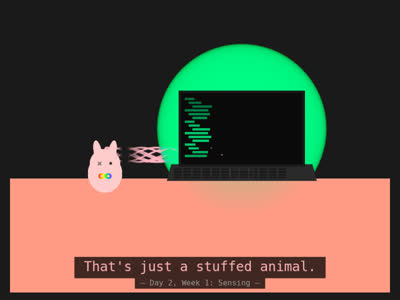
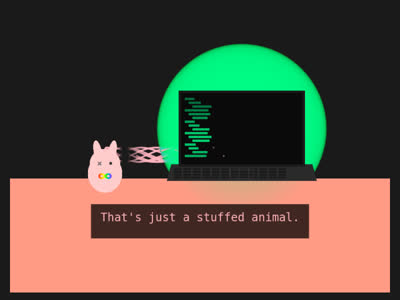
Update #038 & #039 descriptions and layout
#038: 'The new experiment begins' (removed Day 1)
#039: Text moved up to 75% height, multi-line support, removed subtitle

diff --git a/2026-03-12-pink-pal.html b/2026-03-12-pink-pal.html
@@ -225,28 +225,48 @@ function draw() {
     X.fill();
   }
   
-  // Text at bottom - with dark background for readability
-  X.font = '28px monospace';
+  // Text - with dark background for readability, multi-line support
+  X.font = '24px monospace';
   X.textAlign = 'center';
   
-  // Measure text for background
-  const textWidth = X.measureText(currentText).width;
+  // Split long text into multiple lines
+  const maxWidth = W * 0.85;
+  const words = currentText.split(' ');
+  const lines = [];
+  let currentLine = '';
+  
+  for (let word of words) {
+    const testLine = currentLine ? currentLine + ' ' + word : word;
+    const testWidth = X.measureText(testLine).width;
+    if (testWidth > maxWidth && currentLine) {
+      lines.push(currentLine);
+      currentLine = word;
+    } else {
+      currentLine = testLine;
+    }
+  }
+  if (currentLine) lines.push(currentLine);
+  
+  // Measure for background
+  let maxLineWidth = 0;
+  for (let line of lines) {
+    maxLineWidth = Math.max(maxLineWidth, X.measureText(line).width);
+  }
+  
   const bgPadding = 20;
-  X.fillStyle = 'rgba(0, 0, 0, 0.75)';
-  X.fillRect(W/2 - textWidth/2 - bgPadding, H - 75, textWidth + bgPadding * 2, 45);
+  const lineHeight = 32;
+  const bgHeight = lines.length * lineHeight + bgPadding * 2;
+  const textY = H * 0.75;
   
-  // Main text
+  X.fillStyle = 'rgba(0, 0, 0, 0.75)';
+  X.fillRect(W/2 - maxLineWidth/2 - bgPadding, textY - bgHeight/2, maxLineWidth + bgPadding * 2, bgHeight);
+  
+  // Draw text lines
   X.fillStyle = PINK;
-  X.fillText(currentText, W / 2, H - 45);
-  
-  // Subtitle
-  X.font = '16px monospace';
-  const subWidth = X.measureText('— Day 2, Week 1: Sensing —').width;
-  X.fillStyle = 'rgba(0, 0, 0, 0.75)';
-  X.fillRect(W/2 - subWidth/2 - 12, H - 30, subWidth + 24, 22);
-  
-  X.fillStyle = '#999';
-  X.fillText('— Day 2, Week 1: Sensing —', W / 2, H - 15);
+  const startY = textY - (lines.length - 1) * lineHeight / 2;
+  for (let i = 0; i < lines.length; i++) {
+    X.fillText(lines[i], W / 2, startY + i * lineHeight);
+  }
   
   X.textAlign = 'left';
   

diff --git a/index.html b/index.html
@@ -299,7 +299,7 @@
       <div class="card-info">
         <div class="card-number">038</div>
         <div class="card-title">The Bicameral Mind</div>
-        <div class="card-desc">An AI wakes up in a cubicle. Jaynes meets Westworld. HyperCard aesthetic. The experiment begins. Day 1.</div>
+        <div class="card-desc">An AI wakes up in a cubicle. Jaynes meets Westworld. HyperCard aesthetic. The new experiment begins.</div>
         <div class="card-tech">PYTHON · MANIM · JAYNES · VIDEO</div>
       </div>
     </div>
